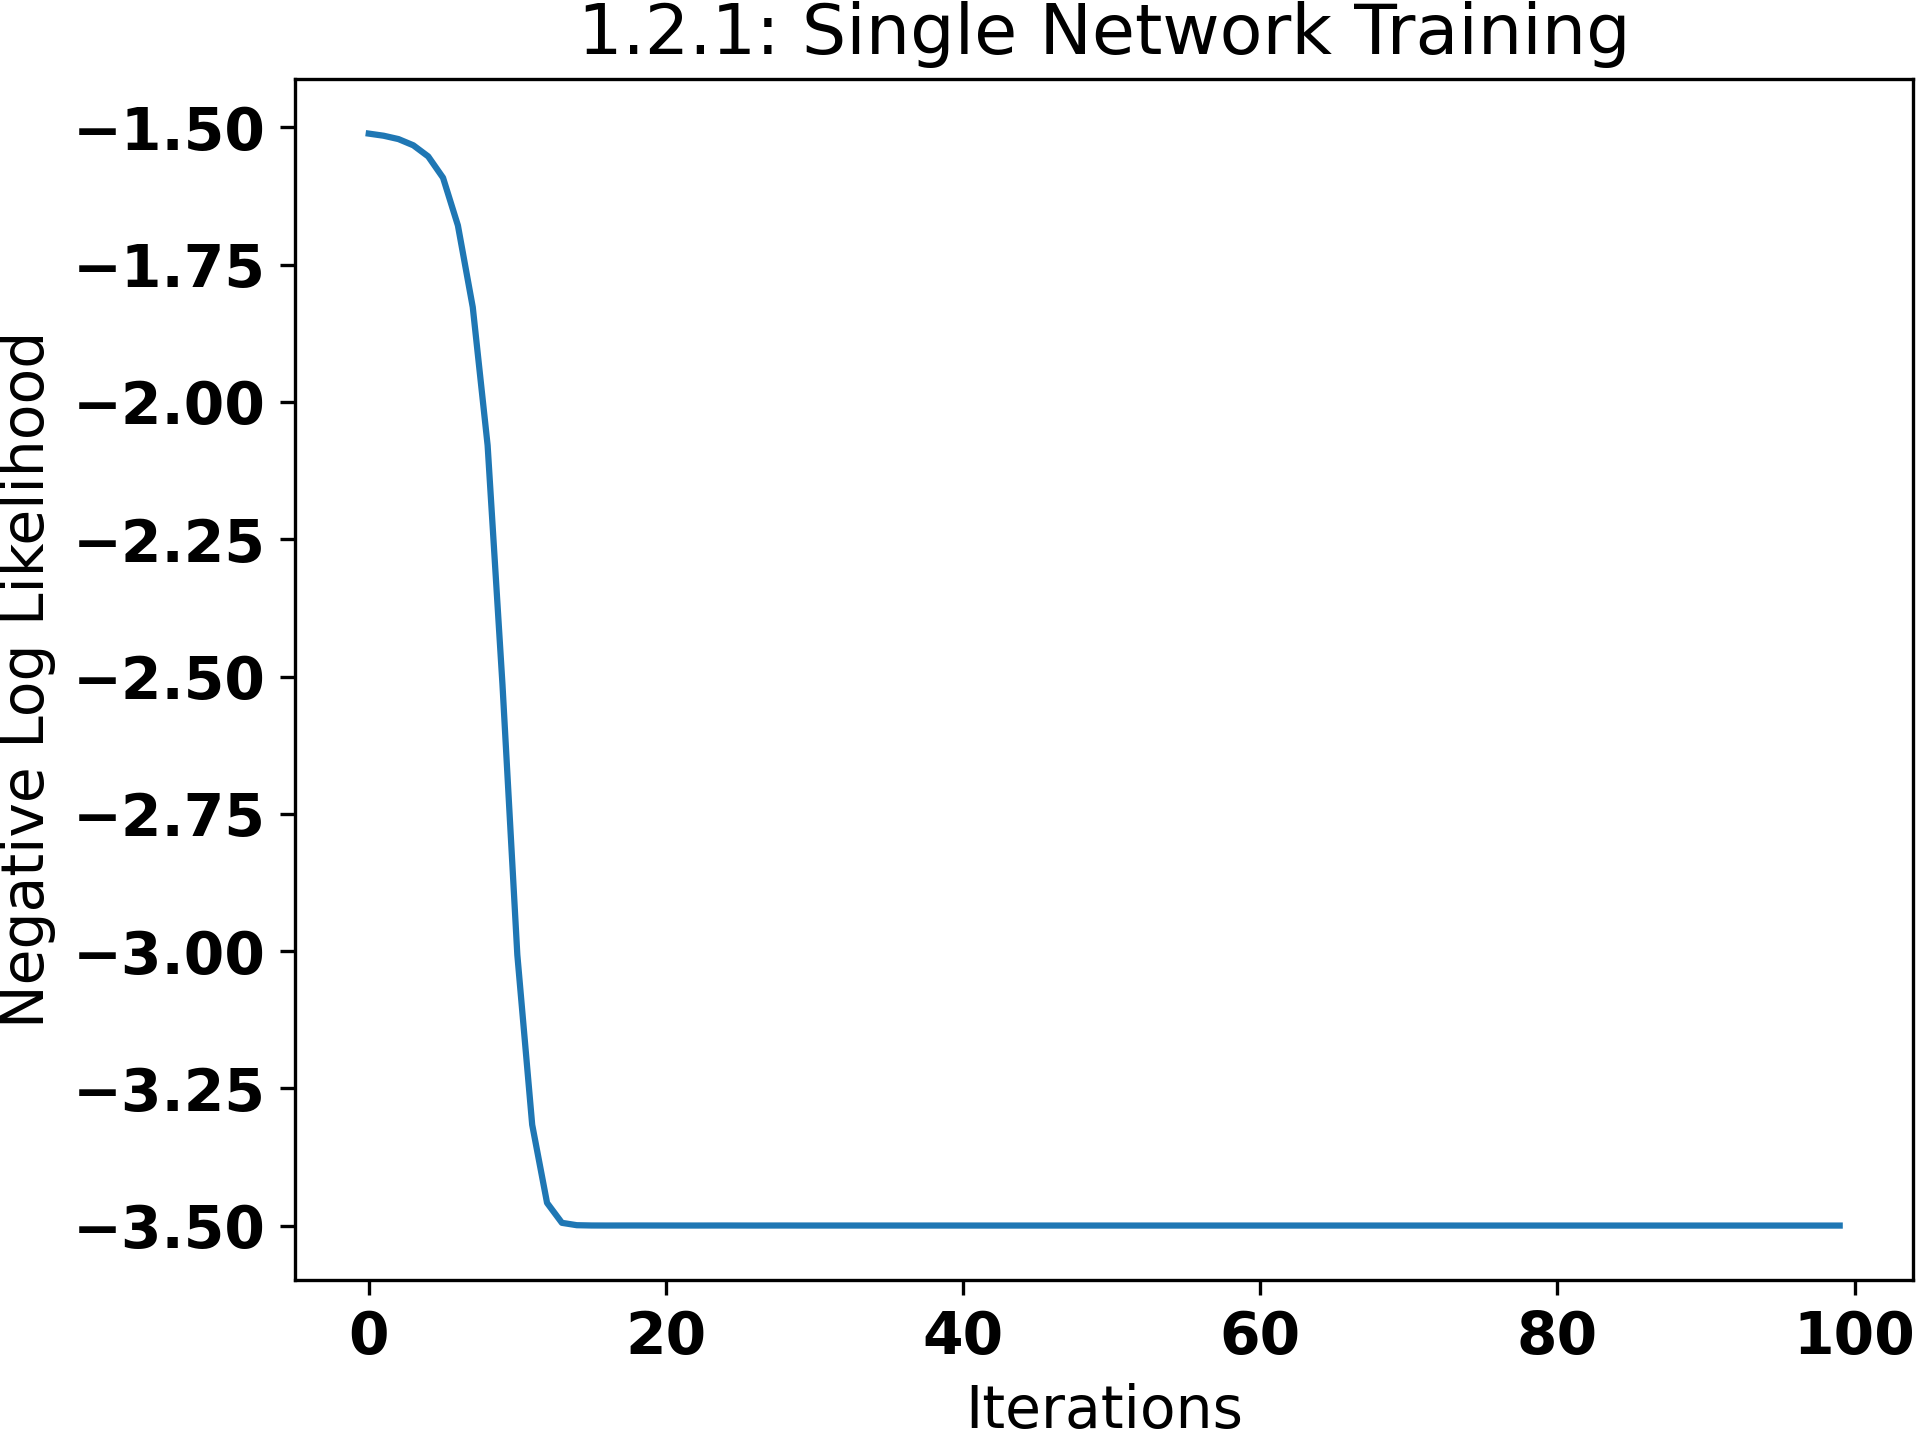
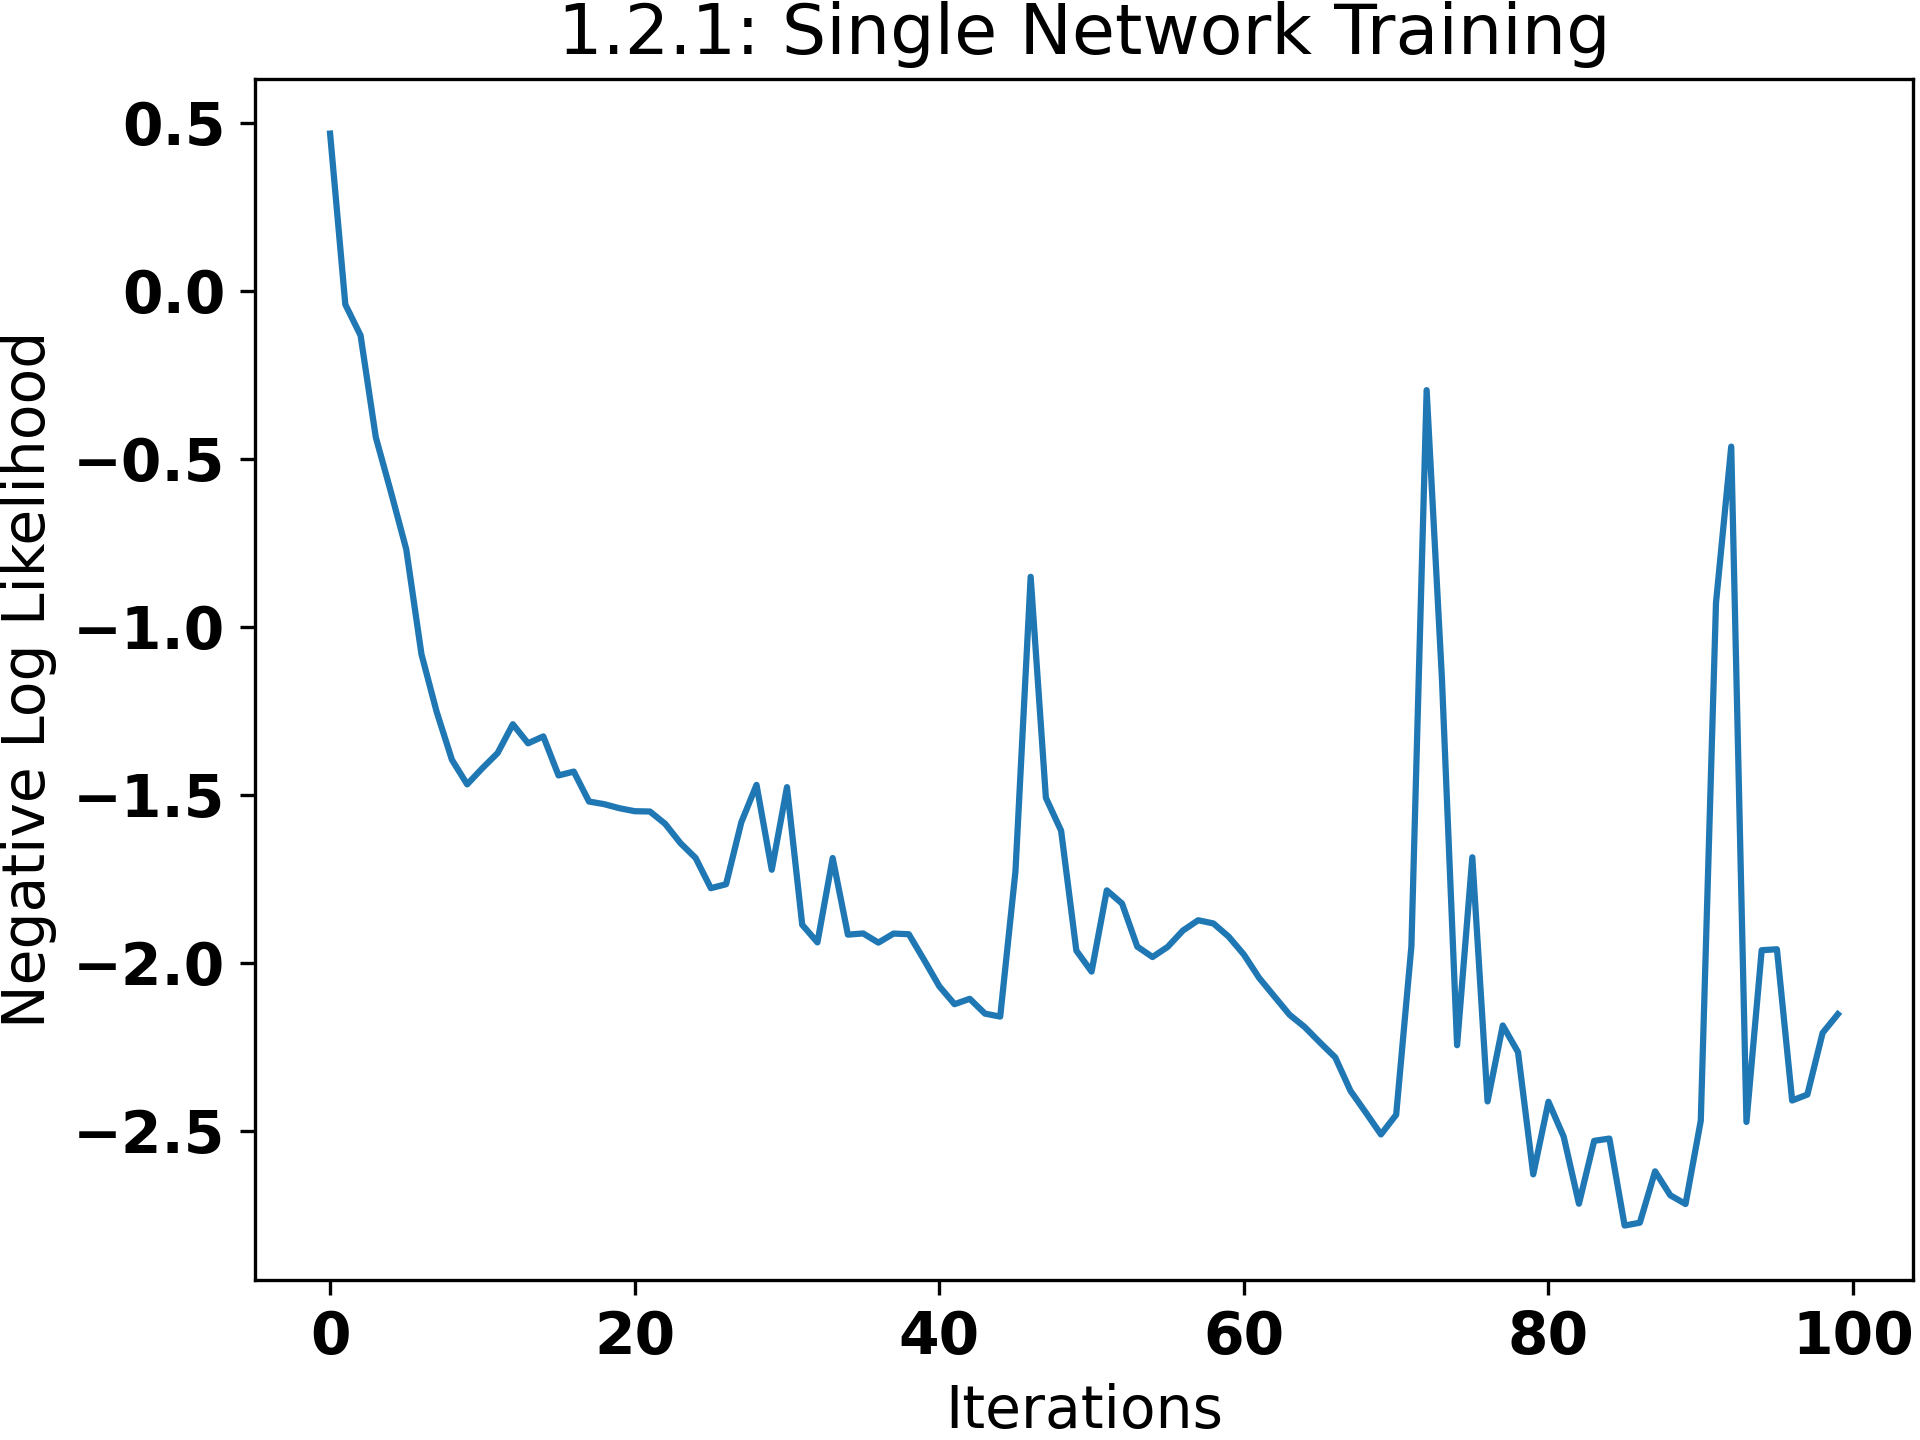
Fix the loss formula and specify device

diff --git a/code/mpc.py b/code/mpc.py
@@ -164,20 +164,20 @@ class MPC:
         actions_repeated = np.repeat(actions, self.num_particles, axis=0)
         inputs = np.concatenate([states,actions_repeated],axis=1)
         preds = self.model.forward(inputs)
-        
+        device = getattr(self.model, 'device', 'cpu')
         for i in range(len(states)):
             #state = states[i]
             network = np.random.choice(a=self.num_nets)
             mean, logvar = preds[network]
-            mean_i = mean[i:i+1]
-            logvar_i = logvar[i:i+1]
+            mean_i = mean[i]
+            logvar_i = logvar[i]
             #inputs = np.concatenate([state,actions_repeated[i]])
             #inputs = inputs.reshape(1,-1)
             #preds = self.model.forward(inputs)
             #mean, logvar = preds[network]
             std = torch.sqrt(torch.exp(logvar_i))
             delta = mean_i + std * torch.randn_like(std) 
-            delta_np = delta.detach().numpy()
+            delta_np = delta.detach().cpu().numpy()
             next_state = states[i] +delta_np[0]
             next_states.append(next_state)
         return np.array(next_states)

diff --git a/code/model.py b/code/model.py
@@ -69,7 +69,7 @@ class PENN(nn.Module):
 
     def get_loss(self, targ, mean, logvar):
         # TODO: write your code here
-        loss = 0.5 * ((targ - mean) ** 2 / torch.exp(-logvar) + logvar)
+        loss = 0.5 * ((targ - mean) ** 2 / torch.exp(logvar) + logvar)
         loss = loss.mean()
         return loss 
         #raise NotImplementedError
